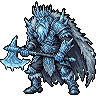
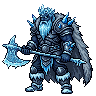
颶父‧瓦爾哈拉換新圖
Claude-Session: https://claude.ai/code/session_019AjetoHBUzNNZUvoSfpCgP

diff --git a/battle/index.html b/battle/index.html
@@ -2625,7 +2625,7 @@ var IMGF={monster_01:'monsters/monster_01.png',monster_02:'monsters/monster_02.p
   monster_03:'monsters/monster_03.png?v=3',monster_03_blink:'monsters/monster_03_blink.png?v=2',monster_boss_01:'monsters/monster_boss_01.png',monster_boss_01_blink:'monsters/monster_boss_01_blink.png',
   monster_04:'monsters/monster_04.png',monster_05:'monsters/monster_05.png',monster_06:'monsters/monster_06.png?v=2',monster_boss_02:'monsters/monster_boss_02.png?v=5',
   monster_07:'monsters/monster_07.png?v=1',monster_08:'monsters/monster_08.png?v=1',monster_08_blink:'monsters/monster_08_blink.png?v=1',monster_09:'monsters/monster_09.png?v=2',
-  monster_10_a:'monsters/monster_10_a.png?v=1',monster_10_b:'monsters/monster_10_b.png?v=1',monster_11:'monsters/monster_11.png?v=1',monster_11_blink:'monsters/monster_11_blink.png?v=1',monster_12:'monsters/monster_12.png?v=1',monster_12_blink:'monsters/monster_12_blink.png?v=1',monster_14:'monsters/monster_14.png?v=1',monster_boss_06:'monsters/monster_boss_06.png?v=1',monster_boss_05:'monsters/monster_boss_05.png?v=1',monster_25:'monsters/monster_25.png?v=1',monster_22:'monsters/monster_22.png?v=1',monster_23:'monsters/monster_23.png?v=1',monster_24:'monsters/monster_24.png?v=1',monster_26:'monsters/monster_26.png?v=1',monster_27:'monsters/monster_27.png?v=1',monster_28:'monsters/monster_28.png?v=1',monster_boss_07:'monsters/monster_boss_07.png?v=1',monster_boss_08:'monsters/monster_boss_08.png?v=1',monster_29:'monsters/monster_29.png?v=1',monster_boss_09:'monsters/monster_boss_09.png?v=1',monster_30:'monsters/monster_30.png?v=1',monster_boss_10:'monsters/monster_boss_10.png?v=1',monster_31:'monsters/monster_31.png?v=1',monster_boss_11:'monsters/monster_boss_11.png?v=1',monster_boss_12:'monsters/monster_boss_12.png?v=1',monster_32:'monsters/monster_32.png?v=1',monster_33:'monsters/monster_33.png?v=1',monster_34:'monsters/monster_34.png?v=1',monster_35:'monsters/monster_35.png?v=1',monster_36:'monsters/monster_36.png?v=1',monster_38:'monsters/monster_38.png?v=1',monster_39:'monsters/monster_39.png?v=1',monster_39_eyes:'monsters/monster_39_eyes.png?v=1',monster_40:'monsters/monster_40.png?v=1',monster_40_blink:'monsters/monster_40_blink.png?v=1',monster_41:'monsters/monster_41.png?v=1',monster_42:'monsters/monster_42.png?v=1',monster_boss_15:'monsters/monster_boss_15.png?v=1',monster_boss_15_blink:'monsters/monster_boss_15_blink.png?v=1',monster_boss_15_sword:'monsters/monster_boss_15_sword.png?v=1',monster_boss_16:'monsters/monster_boss_16.png?v=1',monster_boss_17:'monsters/monster_boss_17.png?v=1',monster_boss_18:'monsters/monster_boss_18.png?v=1',monster_37:'monsters/monster_37.png?v=1',monster_boss_14:'monsters/monster_boss_14.png?v=1',monster_boss_14_blink:'monsters/monster_boss_14_blink.png?v=1',monster_boss_13:'monsters/monster_boss_13.png?v=1',monster_21:'monsters/monster_21.png?v=1',monster_20:'monsters/monster_20.png?v=1',monster_19:'monsters/monster_19.png?v=1',monster_19_blink:'monsters/monster_19_blink.png?v=1',monster_19_tongue:'monsters/monster_19_tongue.png?v=1',monster_18:'monsters/monster_18.png?v=1',monster_boss_04:'monsters/monster_boss_04.png?v=5',monster_boss_04_blink:'monsters/monster_boss_04_blink.png?v=5',monster_boss_04_tc:'monsters/monster_boss_04_tc.png?v=2',monster_17:'monsters/monster_17.png?v=1',monster_16:'monsters/monster_16.png?v=1',monster_43:'monsters/monster_43.png?v=1',monster_52:'monsters/monster_52.png?v=1',monster_53:'monsters/monster_53.png?v=1',monster_54:'monsters/monster_54.png?v=1',monster_57:'monsters/monster_57.png?v=1',monster_55:'monsters/monster_55.png?v=1',monster_55_eyes:'monsters/monster_55_eyes.png?v=1',monster_55_wpn:'monsters/monster_55_wpn.png?v=1',monster_56:'monsters/monster_56.png?v=2',monster_56_eyes:'monsters/monster_56_eyes.png?v=2',monster_56_wpn:'monsters/monster_56_wpn.png?v=2',monster_58:'monsters/monster_58.png?v=1',monster_58_eyes:'monsters/monster_58_eyes.png?v=1',monster_58_wpn:'monsters/monster_58_wpn.png?v=1',monster_59:'monsters/monster_59.png?v=1',monster_59_wpn:'monsters/monster_59_wpn.png?v=1',monster_60:'monsters/monster_60.png?v=1',monster_60_wpn:'monsters/monster_60_wpn.png?v=1',monster_61:'monsters/monster_61.png?v=1',monster_62:'monsters/monster_62.png?v=1',monster_63:'monsters/monster_63.png?v=1',monster_63_eyes:'monsters/monster_63_eyes.png?v=1',monster_63_wpn:'monsters/monster_63_wpn.png?v=1',monster_64:'monsters/monster_64.png?v=1',monster_64_eyes:'monsters/monster_64_eyes.png?v=1',monster_65_a:'monsters/monster_65_a.png?v=1',monster_65_b:'monsters/monster_65_b.png?v=1',monster_65_ac:'monsters/monster_65_ac.png?v=1',monster_65_bc:'monsters/monster_65_bc.png?v=1',monster_68_a:'monsters/monster_68_a.png?v=1',monster_68_b:'monsters/monster_68_b.png?v=1',monster_68_ac:'monsters/monster_68_ac.png?v=1',monster_68_bc:'monsters/monster_68_bc.png?v=1',monster_69:'monsters/monster_69.png?v=1',monster_70:'monsters/monster_70.png?v=1',monster_71:'monsters/monster_71.png?v=1',monster_72:'monsters/monster_72.png?v=1',monster_73:'monsters/monster_73.png?v=1',monster_74:'monsters/monster_74.png?v=1',monster_66:'monsters/monster_66.png?v=1',monster_66_halo:'monsters/monster_66_halo.png?v=1',monster_67:'monsters/monster_67.png?v=1',monster_44:'monsters/monster_44.png?v=1',monster_44_eyes:'monsters/monster_44_eyes.png?v=1',monster_45:'monsters/monster_45.png?v=1',monster_45_eyes:'monsters/monster_45_eyes.png?v=1',monster_46_a:'monsters/monster_46_a.png?v=1',monster_46_b:'monsters/monster_46_b.png?v=1',monster_47:'monsters/monster_47.png?v=1',monster_48:'monsters/monster_48.png?v=1',monster_49:'monsters/monster_49.png?v=1',monster_49_eyes:'monsters/monster_49_eyes.png?v=1',monster_50:'monsters/monster_50.png?v=1',monster_50_eyes:'monsters/monster_50_eyes.png?v=1',monster_51:'monsters/monster_51.png?v=1',monster_15:'monsters/monster_15.png?v=1',monster_13:'monsters/monster_13.png?v=1',monster_13_blink:'monsters/monster_13_blink.png?v=1',monster_boss_03:'monsters/monster_boss_03.png?v=2',claw:'vfx/claw.png?v=1',deathsweep:'vfx/deathsweep.png?v=1',icecluster:'vfx/icecluster.png?v=2',icesprout:'vfx/icesprout.png?v=1',blood_slash:'vfx/blood_slash.png?v=1',holy_sword:'vfx/holy_sword.png?v=1'};
+  monster_10_a:'monsters/monster_10_a.png?v=1',monster_10_b:'monsters/monster_10_b.png?v=1',monster_11:'monsters/monster_11.png?v=1',monster_11_blink:'monsters/monster_11_blink.png?v=1',monster_12:'monsters/monster_12.png?v=1',monster_12_blink:'monsters/monster_12_blink.png?v=1',monster_14:'monsters/monster_14.png?v=1',monster_boss_06:'monsters/monster_boss_06.png?v=1',monster_boss_05:'monsters/monster_boss_05.png?v=1',monster_25:'monsters/monster_25.png?v=1',monster_22:'monsters/monster_22.png?v=1',monster_23:'monsters/monster_23.png?v=1',monster_24:'monsters/monster_24.png?v=1',monster_26:'monsters/monster_26.png?v=1',monster_27:'monsters/monster_27.png?v=1',monster_28:'monsters/monster_28.png?v=1',monster_boss_07:'monsters/monster_boss_07.png?v=1',monster_boss_08:'monsters/monster_boss_08.png?v=1',monster_29:'monsters/monster_29.png?v=1',monster_boss_09:'monsters/monster_boss_09.png?v=1',monster_30:'monsters/monster_30.png?v=1',monster_boss_10:'monsters/monster_boss_10.png?v=1',monster_31:'monsters/monster_31.png?v=1',monster_boss_11:'monsters/monster_boss_11.png?v=1',monster_boss_12:'monsters/monster_boss_12.png?v=1',monster_32:'monsters/monster_32.png?v=1',monster_33:'monsters/monster_33.png?v=1',monster_34:'monsters/monster_34.png?v=1',monster_35:'monsters/monster_35.png?v=1',monster_36:'monsters/monster_36.png?v=1',monster_38:'monsters/monster_38.png?v=1',monster_39:'monsters/monster_39.png?v=1',monster_39_eyes:'monsters/monster_39_eyes.png?v=1',monster_40:'monsters/monster_40.png?v=1',monster_40_blink:'monsters/monster_40_blink.png?v=1',monster_41:'monsters/monster_41.png?v=1',monster_42:'monsters/monster_42.png?v=1',monster_boss_15:'monsters/monster_boss_15.png?v=1',monster_boss_15_blink:'monsters/monster_boss_15_blink.png?v=1',monster_boss_15_sword:'monsters/monster_boss_15_sword.png?v=1',monster_boss_16:'monsters/monster_boss_16.png?v=1',monster_boss_17:'monsters/monster_boss_17.png?v=1',monster_boss_18:'monsters/monster_boss_18.png?v=2',monster_37:'monsters/monster_37.png?v=1',monster_boss_14:'monsters/monster_boss_14.png?v=1',monster_boss_14_blink:'monsters/monster_boss_14_blink.png?v=1',monster_boss_13:'monsters/monster_boss_13.png?v=1',monster_21:'monsters/monster_21.png?v=1',monster_20:'monsters/monster_20.png?v=1',monster_19:'monsters/monster_19.png?v=1',monster_19_blink:'monsters/monster_19_blink.png?v=1',monster_19_tongue:'monsters/monster_19_tongue.png?v=1',monster_18:'monsters/monster_18.png?v=1',monster_boss_04:'monsters/monster_boss_04.png?v=5',monster_boss_04_blink:'monsters/monster_boss_04_blink.png?v=5',monster_boss_04_tc:'monsters/monster_boss_04_tc.png?v=2',monster_17:'monsters/monster_17.png?v=1',monster_16:'monsters/monster_16.png?v=1',monster_43:'monsters/monster_43.png?v=1',monster_52:'monsters/monster_52.png?v=1',monster_53:'monsters/monster_53.png?v=1',monster_54:'monsters/monster_54.png?v=1',monster_57:'monsters/monster_57.png?v=1',monster_55:'monsters/monster_55.png?v=1',monster_55_eyes:'monsters/monster_55_eyes.png?v=1',monster_55_wpn:'monsters/monster_55_wpn.png?v=1',monster_56:'monsters/monster_56.png?v=2',monster_56_eyes:'monsters/monster_56_eyes.png?v=2',monster_56_wpn:'monsters/monster_56_wpn.png?v=2',monster_58:'monsters/monster_58.png?v=1',monster_58_eyes:'monsters/monster_58_eyes.png?v=1',monster_58_wpn:'monsters/monster_58_wpn.png?v=1',monster_59:'monsters/monster_59.png?v=1',monster_59_wpn:'monsters/monster_59_wpn.png?v=1',monster_60:'monsters/monster_60.png?v=1',monster_60_wpn:'monsters/monster_60_wpn.png?v=1',monster_61:'monsters/monster_61.png?v=1',monster_62:'monsters/monster_62.png?v=1',monster_63:'monsters/monster_63.png?v=1',monster_63_eyes:'monsters/monster_63_eyes.png?v=1',monster_63_wpn:'monsters/monster_63_wpn.png?v=1',monster_64:'monsters/monster_64.png?v=1',monster_64_eyes:'monsters/monster_64_eyes.png?v=1',monster_65_a:'monsters/monster_65_a.png?v=1',monster_65_b:'monsters/monster_65_b.png?v=1',monster_65_ac:'monsters/monster_65_ac.png?v=1',monster_65_bc:'monsters/monster_65_bc.png?v=1',monster_68_a:'monsters/monster_68_a.png?v=1',monster_68_b:'monsters/monster_68_b.png?v=1',monster_68_ac:'monsters/monster_68_ac.png?v=1',monster_68_bc:'monsters/monster_68_bc.png?v=1',monster_69:'monsters/monster_69.png?v=1',monster_70:'monsters/monster_70.png?v=1',monster_71:'monsters/monster_71.png?v=1',monster_72:'monsters/monster_72.png?v=1',monster_73:'monsters/monster_73.png?v=1',monster_74:'monsters/monster_74.png?v=1',monster_66:'monsters/monster_66.png?v=1',monster_66_halo:'monsters/monster_66_halo.png?v=1',monster_67:'monsters/monster_67.png?v=1',monster_44:'monsters/monster_44.png?v=1',monster_44_eyes:'monsters/monster_44_eyes.png?v=1',monster_45:'monsters/monster_45.png?v=1',monster_45_eyes:'monsters/monster_45_eyes.png?v=1',monster_46_a:'monsters/monster_46_a.png?v=1',monster_46_b:'monsters/monster_46_b.png?v=1',monster_47:'monsters/monster_47.png?v=1',monster_48:'monsters/monster_48.png?v=1',monster_49:'monsters/monster_49.png?v=1',monster_49_eyes:'monsters/monster_49_eyes.png?v=1',monster_50:'monsters/monster_50.png?v=1',monster_50_eyes:'monsters/monster_50_eyes.png?v=1',monster_51:'monsters/monster_51.png?v=1',monster_15:'monsters/monster_15.png?v=1',monster_13:'monsters/monster_13.png?v=1',monster_13_blink:'monsters/monster_13_blink.png?v=1',monster_boss_03:'monsters/monster_boss_03.png?v=2',claw:'vfx/claw.png?v=1',deathsweep:'vfx/deathsweep.png?v=1',icecluster:'vfx/icecluster.png?v=2',icesprout:'vfx/icesprout.png?v=1',blood_slash:'vfx/blood_slash.png?v=1',holy_sword:'vfx/holy_sword.png?v=1'};
 IMGF.supwing_l='vfx/supwing_l.png?v=1';IMGF.fireburst='vfx/fireburst.png?v=1';IMGF.firedragon='vfx/firedragon.png?v=1';IMGF.meteor='vfx/meteor.png?v=1';IMGF.flamefx='vfx/flamefx.png?v=1';IMGF.supwing_r='vfx/supwing_r.png?v=1';
 [['slash',5],['arrow',1],['missile',3],['thrust',1],['smash',1]].forEach(function(q){for(var k=0;k<8;k++)IMGF[q[0]+'_0'+k]='vfx/'+q[0]+'_0'+k+'.png?v='+q[1]});
 var IMG={};

diff --git a/common/monsters.js b/common/monsters.js
@@ -344,7 +344,7 @@ var IMGF0={monster_01:'monsters/monster_01.png',monster_02:'monsters/monster_02.
   monster_03:'monsters/monster_03.png?v=3',monster_03_blink:'monsters/monster_03_blink.png?v=2',monster_boss_01:'monsters/monster_boss_01.png',monster_boss_01_blink:'monsters/monster_boss_01_blink.png',
   monster_04:'monsters/monster_04.png',monster_05:'monsters/monster_05.png',monster_06:'monsters/monster_06.png?v=2',monster_boss_02:'monsters/monster_boss_02.png?v=5',
   monster_07:'monsters/monster_07.png?v=1',monster_08:'monsters/monster_08.png?v=1',monster_08_blink:'monsters/monster_08_blink.png?v=1',monster_09:'monsters/monster_09.png?v=2',
-  monster_10_a:'monsters/monster_10_a.png?v=1',monster_10_b:'monsters/monster_10_b.png?v=1',monster_11:'monsters/monster_11.png?v=1',monster_11_blink:'monsters/monster_11_blink.png?v=1',monster_12:'monsters/monster_12.png?v=1',monster_12_blink:'monsters/monster_12_blink.png?v=1',monster_14:'monsters/monster_14.png?v=1',monster_boss_06:'monsters/monster_boss_06.png?v=1',monster_boss_05:'monsters/monster_boss_05.png?v=1',monster_25:'monsters/monster_25.png?v=1',monster_22:'monsters/monster_22.png?v=1',monster_23:'monsters/monster_23.png?v=1',monster_24:'monsters/monster_24.png?v=1',monster_26:'monsters/monster_26.png?v=1',monster_27:'monsters/monster_27.png?v=1',monster_28:'monsters/monster_28.png?v=1',monster_boss_07:'monsters/monster_boss_07.png?v=1',monster_boss_08:'monsters/monster_boss_08.png?v=1',monster_29:'monsters/monster_29.png?v=1',monster_boss_09:'monsters/monster_boss_09.png?v=1',monster_30:'monsters/monster_30.png?v=1',monster_boss_10:'monsters/monster_boss_10.png?v=1',monster_31:'monsters/monster_31.png?v=1',monster_boss_11:'monsters/monster_boss_11.png?v=1',monster_boss_12:'monsters/monster_boss_12.png?v=1',monster_32:'monsters/monster_32.png?v=1',monster_33:'monsters/monster_33.png?v=1',monster_34:'monsters/monster_34.png?v=1',monster_35:'monsters/monster_35.png?v=1',monster_36:'monsters/monster_36.png?v=1',monster_38:'monsters/monster_38.png?v=1',monster_39:'monsters/monster_39.png?v=1',monster_39_eyes:'monsters/monster_39_eyes.png?v=1',monster_40:'monsters/monster_40.png?v=1',monster_40_blink:'monsters/monster_40_blink.png?v=1',monster_41:'monsters/monster_41.png?v=1',monster_42:'monsters/monster_42.png?v=1',monster_boss_15:'monsters/monster_boss_15.png?v=1',monster_boss_15_blink:'monsters/monster_boss_15_blink.png?v=1',monster_boss_15_sword:'monsters/monster_boss_15_sword.png?v=1',monster_boss_16:'monsters/monster_boss_16.png?v=1',monster_boss_17:'monsters/monster_boss_17.png?v=1',monster_boss_18:'monsters/monster_boss_18.png?v=1',monster_37:'monsters/monster_37.png?v=1',monster_boss_14:'monsters/monster_boss_14.png?v=1',monster_boss_14_blink:'monsters/monster_boss_14_blink.png?v=1',monster_boss_13:'monsters/monster_boss_13.png?v=1',monster_21:'monsters/monster_21.png?v=1',monster_20:'monsters/monster_20.png?v=1',monster_19:'monsters/monster_19.png?v=1',monster_19_blink:'monsters/monster_19_blink.png?v=1',monster_19_tongue:'monsters/monster_19_tongue.png?v=1',monster_18:'monsters/monster_18.png?v=1',monster_boss_04:'monsters/monster_boss_04.png?v=5',monster_boss_04_blink:'monsters/monster_boss_04_blink.png?v=5',monster_boss_04_tc:'monsters/monster_boss_04_tc.png?v=2',monster_17:'monsters/monster_17.png?v=1',monster_16:'monsters/monster_16.png?v=1',monster_43:'monsters/monster_43.png?v=1',monster_52:'monsters/monster_52.png?v=1',monster_53:'monsters/monster_53.png?v=1',monster_54:'monsters/monster_54.png?v=1',monster_57:'monsters/monster_57.png?v=1',monster_55:'monsters/monster_55.png?v=1',monster_55_eyes:'monsters/monster_55_eyes.png?v=1',monster_55_wpn:'monsters/monster_55_wpn.png?v=1',monster_56:'monsters/monster_56.png?v=2',monster_56_eyes:'monsters/monster_56_eyes.png?v=2',monster_56_wpn:'monsters/monster_56_wpn.png?v=2',monster_58:'monsters/monster_58.png?v=1',monster_58_eyes:'monsters/monster_58_eyes.png?v=1',monster_58_wpn:'monsters/monster_58_wpn.png?v=1',monster_59:'monsters/monster_59.png?v=1',monster_59_wpn:'monsters/monster_59_wpn.png?v=1',monster_60:'monsters/monster_60.png?v=1',monster_60_wpn:'monsters/monster_60_wpn.png?v=1',monster_61:'monsters/monster_61.png?v=1',monster_62:'monsters/monster_62.png?v=1',monster_63:'monsters/monster_63.png?v=1',monster_63_eyes:'monsters/monster_63_eyes.png?v=1',monster_63_wpn:'monsters/monster_63_wpn.png?v=1',monster_64:'monsters/monster_64.png?v=1',monster_64_eyes:'monsters/monster_64_eyes.png?v=1',monster_65_a:'monsters/monster_65_a.png?v=1',monster_65_b:'monsters/monster_65_b.png?v=1',monster_65_ac:'monsters/monster_65_ac.png?v=1',monster_65_bc:'monsters/monster_65_bc.png?v=1',monster_68_a:'monsters/monster_68_a.png?v=1',monster_68_b:'monsters/monster_68_b.png?v=1',monster_68_ac:'monsters/monster_68_ac.png?v=1',monster_68_bc:'monsters/monster_68_bc.png?v=1',monster_69:'monsters/monster_69.png?v=1',monster_70:'monsters/monster_70.png?v=1',monster_71:'monsters/monster_71.png?v=1',monster_72:'monsters/monster_72.png?v=1',monster_73:'monsters/monster_73.png?v=1',monster_74:'monsters/monster_74.png?v=1',monster_66:'monsters/monster_66.png?v=1',monster_66_halo:'monsters/monster_66_halo.png?v=1',monster_67:'monsters/monster_67.png?v=1',monster_44:'monsters/monster_44.png?v=1',monster_44_eyes:'monsters/monster_44_eyes.png?v=1',monster_45:'monsters/monster_45.png?v=1',monster_45_eyes:'monsters/monster_45_eyes.png?v=1',monster_46_a:'monsters/monster_46_a.png?v=1',monster_46_b:'monsters/monster_46_b.png?v=1',monster_47:'monsters/monster_47.png?v=1',monster_48:'monsters/monster_48.png?v=1',monster_49:'monsters/monster_49.png?v=1',monster_49_eyes:'monsters/monster_49_eyes.png?v=1',monster_50:'monsters/monster_50.png?v=1',monster_50_eyes:'monsters/monster_50_eyes.png?v=1',monster_51:'monsters/monster_51.png?v=1',monster_15:'monsters/monster_15.png?v=1',monster_13:'monsters/monster_13.png?v=1',monster_13_blink:'monsters/monster_13_blink.png?v=1',monster_boss_03:'monsters/monster_boss_03.png?v=2',claw:'vfx/claw.png?v=1',blood_slash:'vfx/blood_slash.png?v=1'};
+  monster_10_a:'monsters/monster_10_a.png?v=1',monster_10_b:'monsters/monster_10_b.png?v=1',monster_11:'monsters/monster_11.png?v=1',monster_11_blink:'monsters/monster_11_blink.png?v=1',monster_12:'monsters/monster_12.png?v=1',monster_12_blink:'monsters/monster_12_blink.png?v=1',monster_14:'monsters/monster_14.png?v=1',monster_boss_06:'monsters/monster_boss_06.png?v=1',monster_boss_05:'monsters/monster_boss_05.png?v=1',monster_25:'monsters/monster_25.png?v=1',monster_22:'monsters/monster_22.png?v=1',monster_23:'monsters/monster_23.png?v=1',monster_24:'monsters/monster_24.png?v=1',monster_26:'monsters/monster_26.png?v=1',monster_27:'monsters/monster_27.png?v=1',monster_28:'monsters/monster_28.png?v=1',monster_boss_07:'monsters/monster_boss_07.png?v=1',monster_boss_08:'monsters/monster_boss_08.png?v=1',monster_29:'monsters/monster_29.png?v=1',monster_boss_09:'monsters/monster_boss_09.png?v=1',monster_30:'monsters/monster_30.png?v=1',monster_boss_10:'monsters/monster_boss_10.png?v=1',monster_31:'monsters/monster_31.png?v=1',monster_boss_11:'monsters/monster_boss_11.png?v=1',monster_boss_12:'monsters/monster_boss_12.png?v=1',monster_32:'monsters/monster_32.png?v=1',monster_33:'monsters/monster_33.png?v=1',monster_34:'monsters/monster_34.png?v=1',monster_35:'monsters/monster_35.png?v=1',monster_36:'monsters/monster_36.png?v=1',monster_38:'monsters/monster_38.png?v=1',monster_39:'monsters/monster_39.png?v=1',monster_39_eyes:'monsters/monster_39_eyes.png?v=1',monster_40:'monsters/monster_40.png?v=1',monster_40_blink:'monsters/monster_40_blink.png?v=1',monster_41:'monsters/monster_41.png?v=1',monster_42:'monsters/monster_42.png?v=1',monster_boss_15:'monsters/monster_boss_15.png?v=1',monster_boss_15_blink:'monsters/monster_boss_15_blink.png?v=1',monster_boss_15_sword:'monsters/monster_boss_15_sword.png?v=1',monster_boss_16:'monsters/monster_boss_16.png?v=1',monster_boss_17:'monsters/monster_boss_17.png?v=1',monster_boss_18:'monsters/monster_boss_18.png?v=2',monster_37:'monsters/monster_37.png?v=1',monster_boss_14:'monsters/monster_boss_14.png?v=1',monster_boss_14_blink:'monsters/monster_boss_14_blink.png?v=1',monster_boss_13:'monsters/monster_boss_13.png?v=1',monster_21:'monsters/monster_21.png?v=1',monster_20:'monsters/monster_20.png?v=1',monster_19:'monsters/monster_19.png?v=1',monster_19_blink:'monsters/monster_19_blink.png?v=1',monster_19_tongue:'monsters/monster_19_tongue.png?v=1',monster_18:'monsters/monster_18.png?v=1',monster_boss_04:'monsters/monster_boss_04.png?v=5',monster_boss_04_blink:'monsters/monster_boss_04_blink.png?v=5',monster_boss_04_tc:'monsters/monster_boss_04_tc.png?v=2',monster_17:'monsters/monster_17.png?v=1',monster_16:'monsters/monster_16.png?v=1',monster_43:'monsters/monster_43.png?v=1',monster_52:'monsters/monster_52.png?v=1',monster_53:'monsters/monster_53.png?v=1',monster_54:'monsters/monster_54.png?v=1',monster_57:'monsters/monster_57.png?v=1',monster_55:'monsters/monster_55.png?v=1',monster_55_eyes:'monsters/monster_55_eyes.png?v=1',monster_55_wpn:'monsters/monster_55_wpn.png?v=1',monster_56:'monsters/monster_56.png?v=2',monster_56_eyes:'monsters/monster_56_eyes.png?v=2',monster_56_wpn:'monsters/monster_56_wpn.png?v=2',monster_58:'monsters/monster_58.png?v=1',monster_58_eyes:'monsters/monster_58_eyes.png?v=1',monster_58_wpn:'monsters/monster_58_wpn.png?v=1',monster_59:'monsters/monster_59.png?v=1',monster_59_wpn:'monsters/monster_59_wpn.png?v=1',monster_60:'monsters/monster_60.png?v=1',monster_60_wpn:'monsters/monster_60_wpn.png?v=1',monster_61:'monsters/monster_61.png?v=1',monster_62:'monsters/monster_62.png?v=1',monster_63:'monsters/monster_63.png?v=1',monster_63_eyes:'monsters/monster_63_eyes.png?v=1',monster_63_wpn:'monsters/monster_63_wpn.png?v=1',monster_64:'monsters/monster_64.png?v=1',monster_64_eyes:'monsters/monster_64_eyes.png?v=1',monster_65_a:'monsters/monster_65_a.png?v=1',monster_65_b:'monsters/monster_65_b.png?v=1',monster_65_ac:'monsters/monster_65_ac.png?v=1',monster_65_bc:'monsters/monster_65_bc.png?v=1',monster_68_a:'monsters/monster_68_a.png?v=1',monster_68_b:'monsters/monster_68_b.png?v=1',monster_68_ac:'monsters/monster_68_ac.png?v=1',monster_68_bc:'monsters/monster_68_bc.png?v=1',monster_69:'monsters/monster_69.png?v=1',monster_70:'monsters/monster_70.png?v=1',monster_71:'monsters/monster_71.png?v=1',monster_72:'monsters/monster_72.png?v=1',monster_73:'monsters/monster_73.png?v=1',monster_74:'monsters/monster_74.png?v=1',monster_66:'monsters/monster_66.png?v=1',monster_66_halo:'monsters/monster_66_halo.png?v=1',monster_67:'monsters/monster_67.png?v=1',monster_44:'monsters/monster_44.png?v=1',monster_44_eyes:'monsters/monster_44_eyes.png?v=1',monster_45:'monsters/monster_45.png?v=1',monster_45_eyes:'monsters/monster_45_eyes.png?v=1',monster_46_a:'monsters/monster_46_a.png?v=1',monster_46_b:'monsters/monster_46_b.png?v=1',monster_47:'monsters/monster_47.png?v=1',monster_48:'monsters/monster_48.png?v=1',monster_49:'monsters/monster_49.png?v=1',monster_49_eyes:'monsters/monster_49_eyes.png?v=1',monster_50:'monsters/monster_50.png?v=1',monster_50_eyes:'monsters/monster_50_eyes.png?v=1',monster_51:'monsters/monster_51.png?v=1',monster_15:'monsters/monster_15.png?v=1',monster_13:'monsters/monster_13.png?v=1',monster_13_blink:'monsters/monster_13_blink.png?v=1',monster_boss_03:'monsters/monster_boss_03.png?v=2',claw:'vfx/claw.png?v=1',blood_slash:'vfx/blood_slash.png?v=1'};
 var IMGF={};Object.keys(IMGF0).forEach(function(k){if(/^monster/.test(k))IMGF[k]=IMGF0[k]});IMGF.flamefx='vfx/flamefx.png?v=1';
 function loadPx(src){return new Promise(function(res){var im=new Image();im.onload=function(){res(im)};im.onerror=function(){res(null)};im.src=src})}
 var ready=null;

diff --git a/real/index.html b/real/index.html
@@ -28,7 +28,7 @@ html,body{margin:0;height:100%;overflow:hidden;touch-action:none;-webkit-text-si
 <div id="rdm" hidden style="position:fixed;left:50%;top:calc(env(safe-area-inset-top) + 56px);transform:translateX(-50%);font-size:12px;background:rgba(18,12,8,.8);padding:3px 8px;pointer-events:none"></div>
 <div style="position:fixed;right:4px;top:calc(env(safe-area-inset-top) + 50px);font-size:9px;color:rgba(255,255,255,.75);text-shadow:0 0 2px #000;pointer-events:none">© OpenStreetMap contributors</div>
 <div id="load">讀取中…</div>
-<script src="../common/monsters.js?v=74"></script>
+<script src="../common/monsters.js?v=75"></script>
 <script src="../common/doll.js?v=12"></script>
 <script>
 (function(){

diff --git a/notes/index.html b/notes/index.html
@@ -164,7 +164,7 @@ html:has(.back:not([hidden])),html:has(.back:not([hidden])) body{overflow:hidden
 <script src="../common/skilldesc.js?v=2"></script>
 <script src="../common/aura.js?v=8"></script>
 <script src="../common/runevals.js?v=3"></script>
-<script src="../common/monsters.js?v=74"></script>
+<script src="../common/monsters.js?v=75"></script>
 <script>
 (function(){
 var BASE='../assets/',V='5',demo=/[?&]demo=1/.test(location.search),NST=20;
